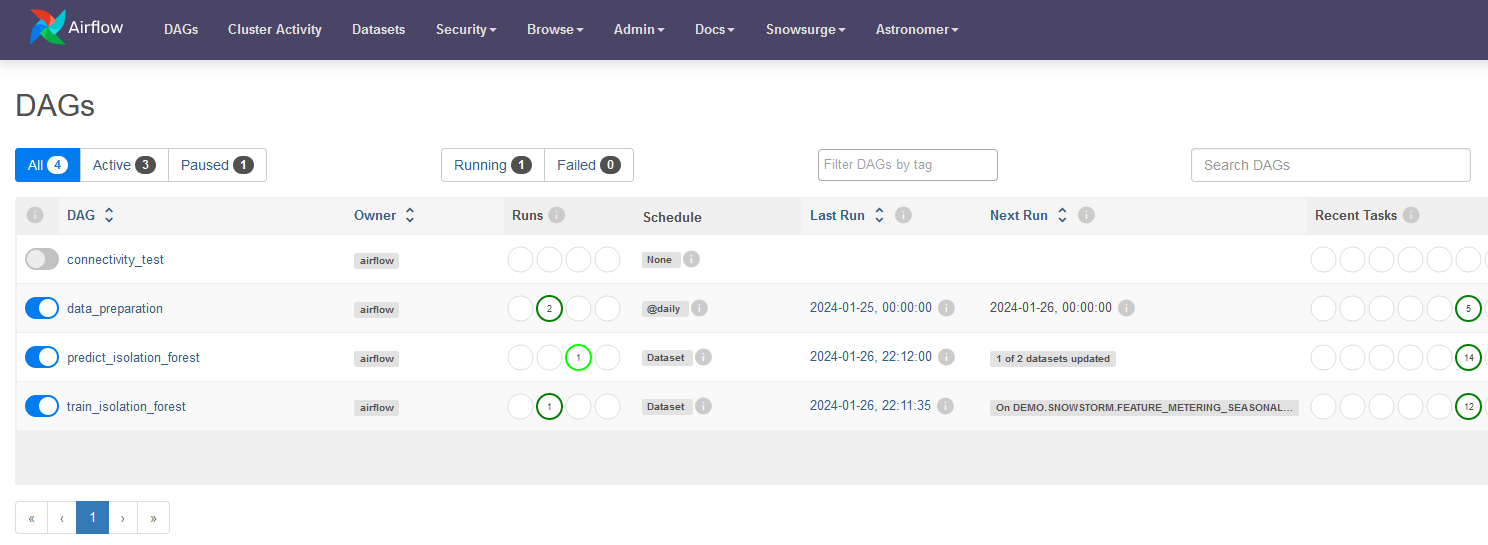
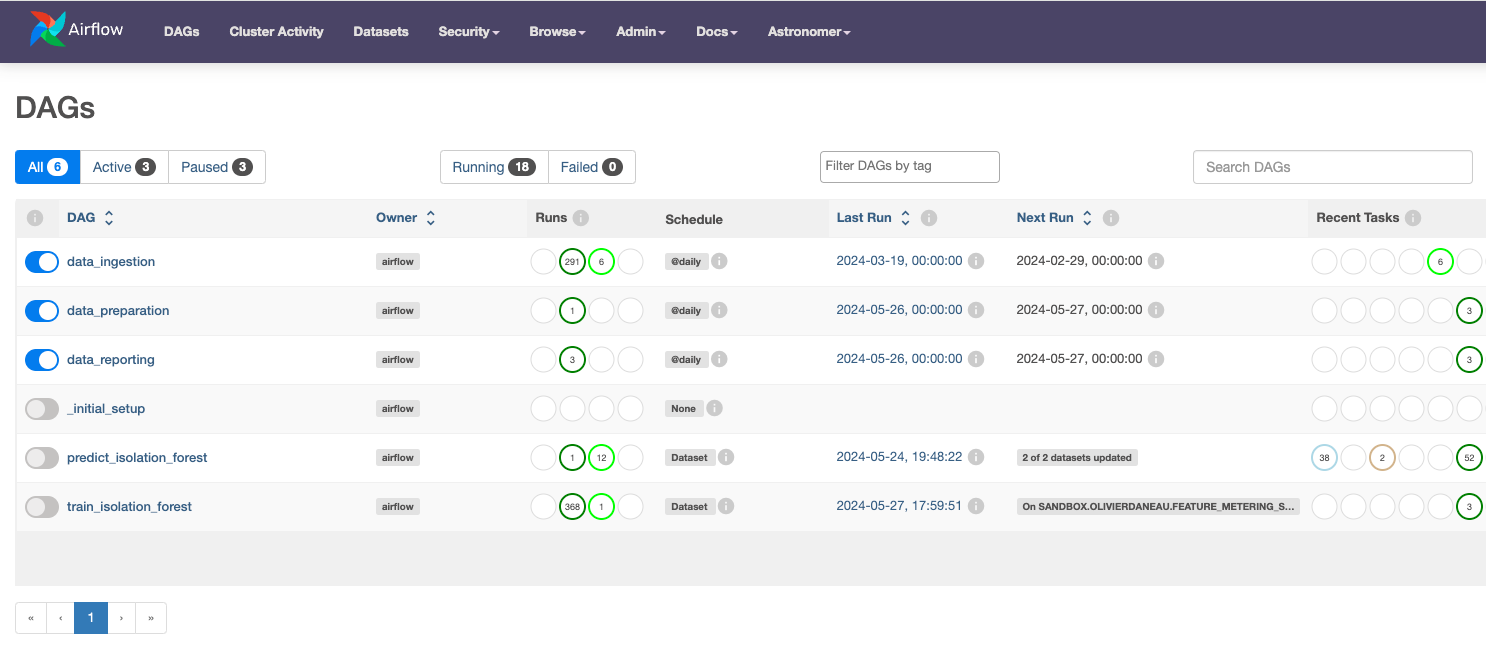
Perform ingestion in a separate DAG

diff --git a/dags/data_preparation.py b/dags/data_preparation.py
@@ -12,13 +12,11 @@ from airflow.utils import timezone
 from dateutil.relativedelta import relativedelta
 from statsmodels.tsa.seasonal import seasonal_decompose
 
-from include.config import account_number
 from include.datasets import (
     common_calendar_table,
     feature_warehouse_metering_table,
     metrics_warehouse_metering_table,
     raw_warehouse_metering_history_table,
-    source_warehouse_metering_history_table,
 )
 from include.exceptions import DataValidationFailed
 
@@ -32,17 +30,13 @@ slack_channel = "#snowstorm-alerts"
 
 doc_md = f"""
         # Data Preparation
-        This DAG performs the data preparation for Snowflake's Metering view. We use it
-        to populate feature tables for ML DAGs. Corrections can be made to this view
-        up to 24 hours later. Only the last 365 days are kept. We perform a MERGE operation
-        to ensure new data is inserted and past history is updated if changes happen for past dates.
+        This DAG performs the data preparation for Snowflake's Metering data.
 
         #### Tables
-        - [{source_warehouse_metering_history_table.uri}](https://docs.snowflake.com/en/sql-reference/organization-usage/warehouse_metering_history)
         - {common_calendar_table.uri} - A simple calendar table populated for 5 years starting on 2023-01-01
         - {raw_warehouse_metering_history_table.uri} - A source table to accumulate the metering data
         - {metrics_warehouse_metering_table.uri} - A metrics table for the metering data with added statistics like SMA and STD
-        - {feature_warehouse_metering_table.uri} - A feature table for the seasonal decomposition of the metering data
+        - {feature_warehouse_metering_table.uri} - A feature table for the deseasonalized metering data
         """
 
 with DAG(
@@ -58,28 +52,11 @@ with DAG(
     },
     schedule="@daily",
     start_date=timezone.utcnow() - relativedelta(years=+1),
-    catchup=True,
+    catchup=False,
     max_active_runs=1,
     doc_md=doc_md,
     template_searchpath="/usr/local/airflow/include",
 ):
-    load_warehouse_metering_history = SQLExecuteQueryOperator(
-        doc_md="""
-            Task to persist the data from the view
-            SNOWFLAKE.ORGANIZATION_USAGE.WAREHOUSE_METERING_HISTORY.
-            This view keeps the last 365 days of data so we need to persist it ourselves.
-            We reload 3 days each time to account for Snowflake past corrections.
-            """,
-        task_id="load_warehouse_metering_history_table",
-        conn_id=snowflake_conn_id,
-        outlets=raw_warehouse_metering_history_table,
-        sql="sql/data_preparation/warehouse_metering_history.sql",
-        params={
-            "table_name": raw_warehouse_metering_history_table.uri,
-            "source_metering_table": source_warehouse_metering_history_table.uri,
-            "account_number": account_number,
-        },
-    )
 
     @task(
         doc_md="""We expect to have metering data for all dates between dag_start_date
@@ -200,8 +177,7 @@ with DAG(
         )
 
     (
-        load_warehouse_metering_history
-        >> validate_raw_metering_table()
+        validate_raw_metering_table()
         >> load_metrics_warehouse_metering_table
         >> load_feature_warehouse_metering_table()
     )

diff --git a/dags/data_ingestion.py b/dags/data_ingestion.py
@@ -1,0 +1,69 @@
+from datetime import timedelta
+
+from airflow import DAG
+from airflow.providers.common.sql.operators.sql import SQLExecuteQueryOperator
+from airflow.providers.slack.notifications.slack import send_slack_notification
+from airflow.providers.snowflake.hooks.snowflake import SnowflakeHook
+from airflow.utils import timezone
+from dateutil.relativedelta import relativedelta
+
+from include.config import account_number
+from include.datasets import (
+    raw_warehouse_metering_history_table,
+    source_warehouse_metering_history_table,
+)
+
+# Snowflake Configuration
+snowflake_conn_id = "snowflake_conn"
+snowflake_hook = SnowflakeHook(snowflake_conn_id)
+
+# Slack Configuration
+slack_conn_id = "slack_alert"
+slack_channel = "#snowstorm-alerts"
+
+doc_md = f"""
+        # Data Ingestion
+        This DAG performs the data ingestion for Snowflake's Metering view. The last 365 days are loaded.
+
+        #### Tables
+        - [{source_warehouse_metering_history_table.uri}](https://docs.snowflake.com/en/sql-reference/organization-usage/warehouse_metering_history)
+        - {raw_warehouse_metering_history_table.uri} - A source table to accumulate the metering data
+        """
+
+with DAG(
+    dag_id="data_ingestion",
+    default_args={
+        "retries": 3,
+        "retry_delay": timedelta(minutes=5),
+        "on_failure_callback": send_slack_notification(
+            slack_conn_id="slack_alert",
+            text="The task {{ ti.task_id }} failed. Check the logs.",
+            channel=slack_channel,
+        ),
+    },
+    schedule="@daily",
+    start_date=timezone.utcnow() - relativedelta(years=+1),
+    catchup=True,
+    max_active_runs=10,
+    doc_md=doc_md,
+    template_searchpath="/usr/local/airflow/include",
+):
+    load_warehouse_metering_history = SQLExecuteQueryOperator(
+        doc_md="""
+            Task to persist the data from the view
+            SNOWFLAKE.ORGANIZATION_USAGE.WAREHOUSE_METERING_HISTORY.
+            This view keeps the last 365 days of data so we need to persist it ourselves.
+            We reload 3 days each time to account for Snowflake past corrections.
+            """,
+        task_id="load_warehouse_metering_history_table",
+        conn_id=snowflake_conn_id,
+        outlets=raw_warehouse_metering_history_table,
+        sql="sql/data_ingestion/warehouse_metering_history.sql",
+        params={
+            "table_name": raw_warehouse_metering_history_table.uri,
+            "source_metering_table": source_warehouse_metering_history_table.uri,
+            "account_number": account_number,
+        },
+    )
+
+    load_warehouse_metering_history

diff --git a/dags/train_isolation_forest.py b/dags/train_isolation_forest.py
@@ -17,7 +17,10 @@ from airflow.utils import timezone
 from dateutil.relativedelta import relativedelta
 from sklearn.ensemble import IsolationForest
 
-from include.datasets import feature_warehouse_metering_table, isolation_forest_model
+from include.datasets import (
+    feature_warehouse_metering_table,
+    isolation_forest_model,
+)
 
 # Snowflake Configuration
 snowflake_conn_id = "snowflake_conn"
@@ -38,12 +41,13 @@ model_config = {
     "threshold_cutoff": 3,  # we will assume X STDDev from the mean as anomalous
 }
 
-doc_md = """
-    This DAG performs training of isolation forest models for each Snowflake Virtual Warehouses.
+doc_md = f"""
+    This DAG performs feature engineering and training of isolation forest models for each Snowflake Virtual Warehouses.
+    We use it to populate feature tables for ML DAGs.
     A separate model is trained for each warehouse using Dynamic Task Mapping.
 
      #### Tables
-        - {feature_metering_table.uri} - A feature table for the seasonal decomposition of the metering data
+        - {feature_warehouse_metering_table.uri} - A feature table for the seasonal decomposition of the metering data
     """
 
 with DAG(
@@ -57,9 +61,10 @@ with DAG(
             channel=slack_channel,
         ),
     },
-    schedule=[feature_warehouse_metering_table],
+    schedule="@weekly",  # [feature_warehouse_metering_table],
     start_date=timezone.utcnow() - relativedelta(years=+1),
-    catchup=False,
+    catchup=True,
+    max_active_runs=1,
     doc_md=doc_md,
 ):
 

diff --git a/dags/data_reporting.py b/dags/data_reporting.py
@@ -1,17 +1,18 @@
-from datetime import datetime, timedelta
+from datetime import timedelta
 
 from airflow import DAG
 from airflow.providers.common.sql.operators.sql import SQLExecuteQueryOperator
 from airflow.providers.slack.notifications.slack import send_slack_notification
 from airflow.providers.snowflake.hooks.snowflake import SnowflakeHook
+from airflow.utils import timezone
+from dateutil.relativedelta import relativedelta
 
+from include.config import account_number
 from include.datasets import (
     reporting_database_storage_cost_table,
     reporting_query_history_table,
     reporting_warehouse_credits_table,
 )
-
-from include.config import account_number
 
 # Snowflake Configuration
 snowflake_conn_id = "snowflake_conn"
@@ -38,8 +39,8 @@ with DAG(
         ),
     },
     schedule="@daily",
-    start_date=datetime(2024, 1, 1),
-    catchup=False,
+    start_date=timezone.utcnow() - relativedelta(years=+1),
+    catchup=True,
     max_active_runs=1,
     doc_md=doc_md,
     template_searchpath="/usr/local/airflow/include",

diff --git a/dags/predict_isolation_forest.py b/dags/predict_isolation_forest.py
@@ -53,7 +53,6 @@ with DAG(
         ),
     },
     schedule=[
-        feature_warehouse_metering_table,
         isolation_forest_model,
     ],
     start_date=timezone.utcnow() - relativedelta(years=+1),

diff --git a/README.md b/README.md
@@ -166,13 +166,15 @@ GRANT ROLE snowpatrol TO <service_account>;
 
 5. Run the `initial_setup` DAG to create the necessary Snowflake tables.
 
-6. Run the `data_preparation` DAG:
+6. Run the `data_ingestion` DAG to load daily warehouse metering data.
+
+7. Run the `data_preparation` DAG:
    After the `data_preparation` DAG runs it will trigger the `train_isolation_forest` DAG.
 
-7. After the `data_preparation` and `train_isolation_forest` DAGs run, Airflow will trigger
+8. After the `data_preparation` and `train_isolation_forest` DAGs run, Airflow will trigger
    the `predict_isolation_forest` DAG.
 
-8. Deploy to Astro:
+9. Deploy to Astro:
    Complete the following steps to promote from Airflow running locally to a production deployment in Astro.
     - Log in to Astro from the CLI.
     ```bash
@@ -187,11 +189,11 @@ GRANT ROLE snowpatrol TO <service_account>;
 
    The `variable update` will load variables from the `.env` file that was created in step #3.
 
-9. Login to Astro and ensure that all the DAGs are unpaused. Every night the `data_preparation`, `data_reporting`,
-   `train_isolation_forest` and `predict_isolation_forest` DAGs will run.
-   Alerts will be sent to the channel specified in `slack_channel` in the `predict_isolation_forest` DAG.
+10. Login to Astro and ensure that all the DAGs are unpaused. Every night the `data_ingestion`, `data_preparation`,
+    `data_reporting`, `train_isolation_forest` and `predict_isolation_forest` DAGs will run.
+    Alerts will be sent to the channel specified in `slack_channel` in the `predict_isolation_forest` DAG.
 
-10. Configure the GitHub Integration in Astro to implement CI/CD for Apache Airflow and deploy code to Astro. This is
+11. Configure the GitHub Integration in Astro to implement CI/CD for Apache Airflow and deploy code to Astro. This is
     the fastest way to deploy new changes. See
     the [documentation](https://docs.astronomer.io/astro/deploy-github-integration) for more details.
 
